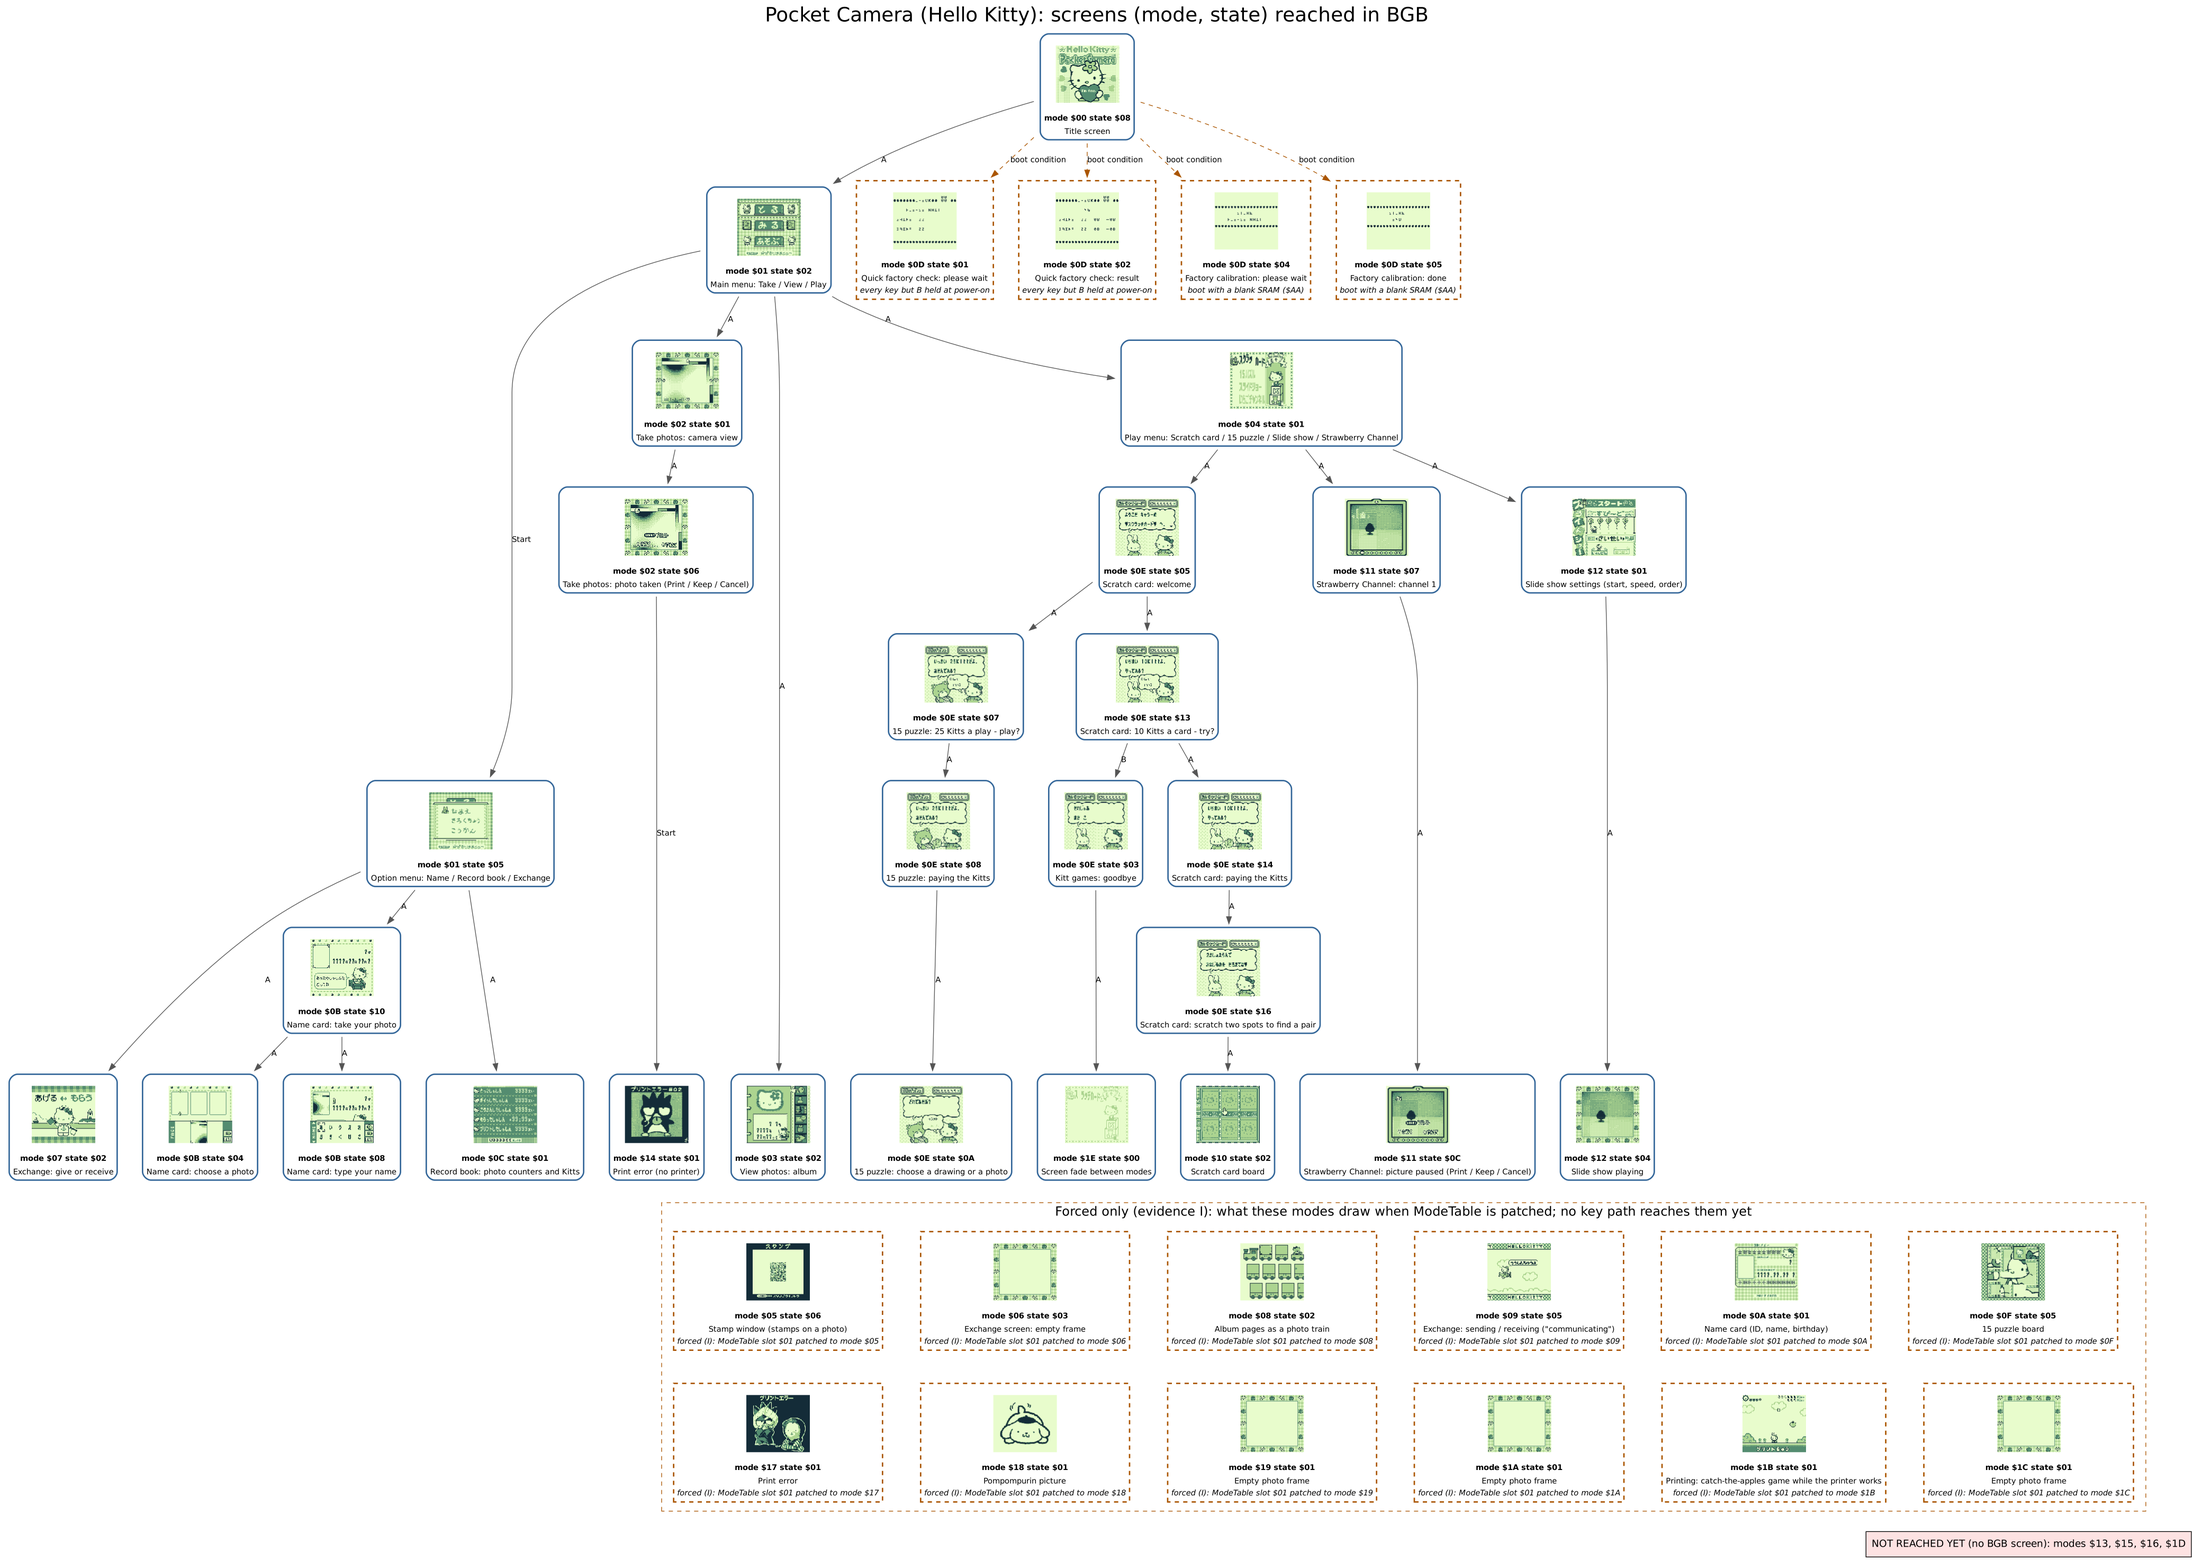
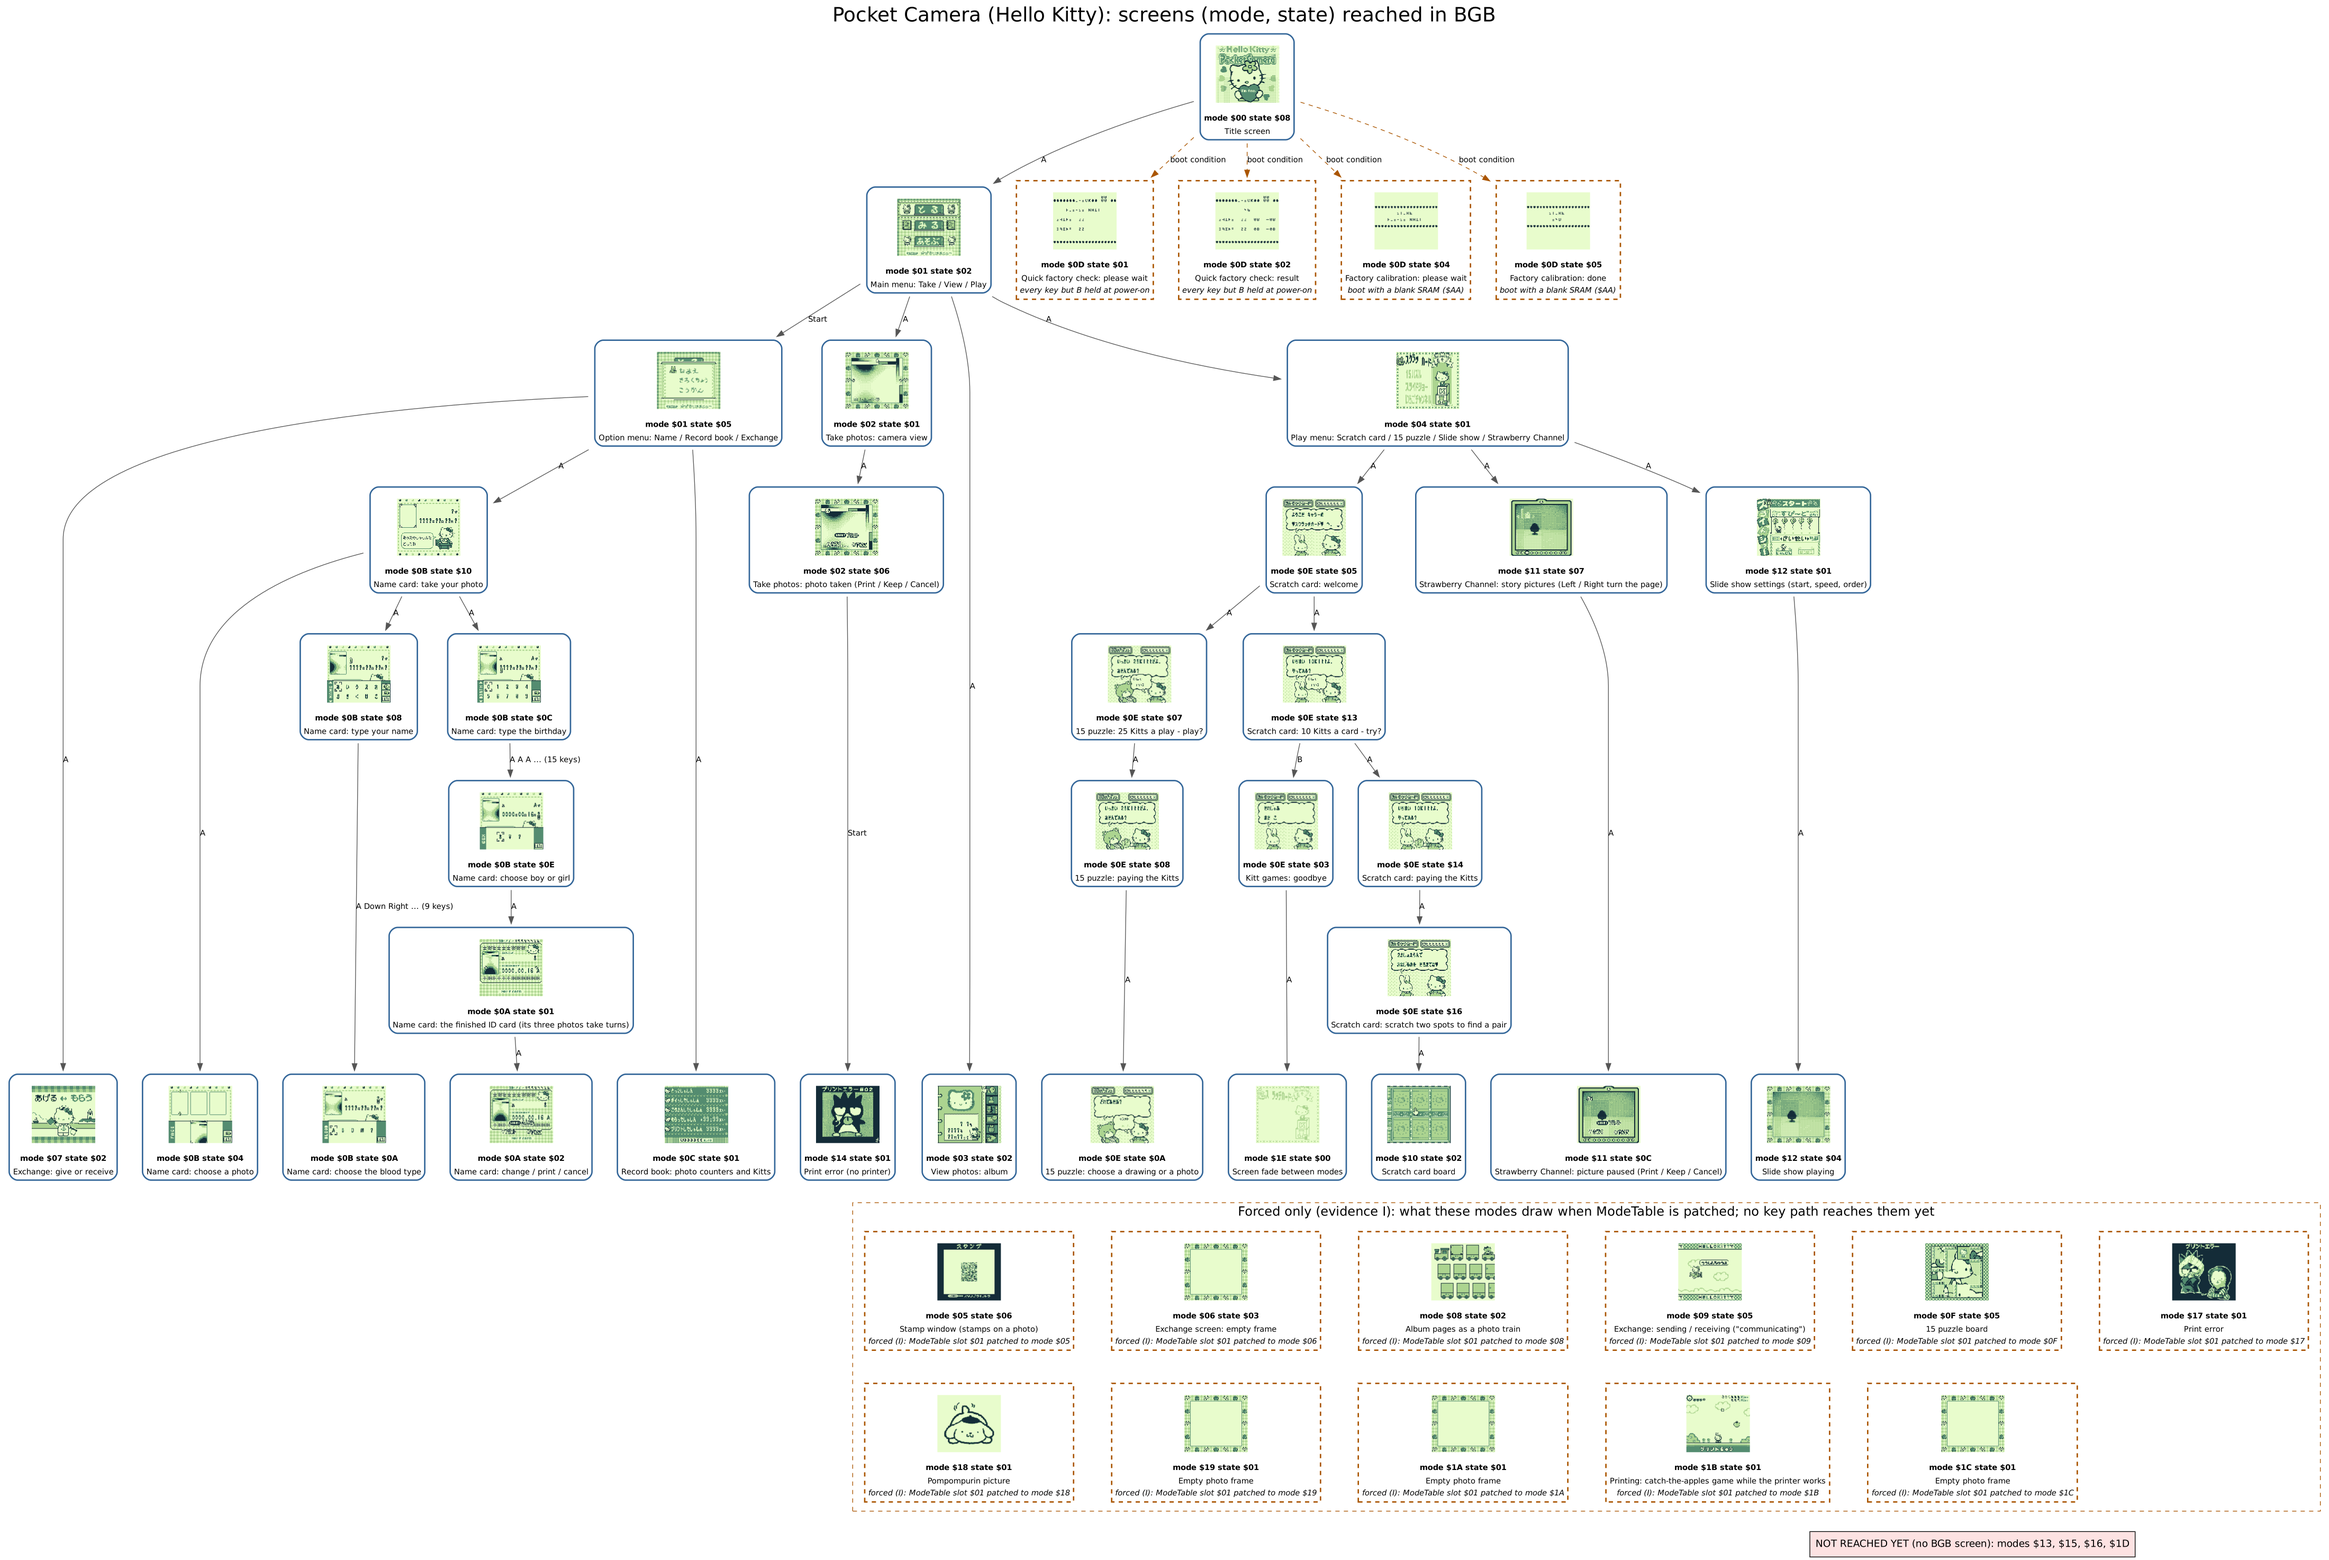
Hello Kitty L2 additions: the animated ID card and the Strawberry Channel pages
* Name card reached with keys only (mode $0B states 4, 8, $0A, $0C, $0E,
  then the finished card, mode $0A states 1-2); mode $0A leaves the forced box.
* Strawberry Channel channel 1: a photo story paged with Left / Right
  (screens/strawberry_channel_pages.png); choosing another channel is open.
* screen_collect.py: a branch exploration's first screen is linked to the
  screen of its longest recorded key prefix; the three trees redrawn.

Check: 0 failed.

Claude-Session: https://claude.ai/code/session_011bkRcFvDptjxMkMYasBR8N

diff --git a/tools/screen_collect.py b/tools/screen_collect.py
@@ -19,6 +19,19 @@ for d in a.explore:
         if r['same'] != 'yes' or k in rows: continue
         pic = 'screen_%s_%s.png' % k; shutil.copy(os.path.join(d, r['picture']), os.path.join(a.out, pic))
         r = {c: r.get(c, '') for c in cols}; r['picture'] = pic; rows[k] = r
+# a branch exploration (--prefix) gives its first screen no parent: take the (mode, state) of any row, in any folder, whose key
+# path is the longest prefix of this one (the screen before; the edge is labelled with the keys after it)
+bykeys = {}
+for d in a.explore:
+    for r in csv.DictReader(open(os.path.join(d, 'explore.csv'))):
+        if r['same'] == 'yes': bykeys.setdefault(r['keys'], (r['mode'], r['state']))
+for k, r in rows.items():
+    if not r['parent'] and r['keys'] not in ('-', ''):
+        ks = r['keys'].split()
+        for j in range(len(ks) - 1, -1, -1):      # the longest recorded prefix; the edge then carries the keys after it
+            pk = ' '.join(ks[:j]) or '-'
+            if pk in bykeys and bykeys[pk] != k:
+                r['parent'] = '%s:%s' % bykeys[pk]; r['key'] = ' '.join(ks[j:]) if len(ks) - j <= 4 else '%s ... (%d keys)' % (' '.join(ks[j:j + 3]), len(ks) - j); break
 with open(os.path.join(a.out, 'explore.csv'), 'w', newline='') as f:
     w = csv.DictWriter(f, cols); w.writeheader(); w.writerows(rows[k] for k in sorted(rows))
 ex = {}

diff --git a/roms/hello_kitty/README.md b/roms/hello_kitty/README.md
@@ -45,7 +45,10 @@ The Kitty engine is not the Japanese one, so this ROM has its own tracer, `tools
 * **0 indirect sites left unresolved (C).** The dynamic ones are read by hand in `disasm/extra_roots_kitty.json` with their reason: the two object engines (per-frame routine and script command calls at `00:2113` / `00:212F` and `01:59E7` / `01:59FE`; objects are 23-byte slots at `$DAEE`, created by `$205D` from a descriptor in bank 2), the script command that calls the word after it (`02:6601` / `02:6612`), and object creations whose descriptor is returned by a far call; their targets come from the runs (observed roots).
 * **Observed (C).** 45,438 of the 60,622 bytes of proven code ran: in the project's core (`tools/kitty_coverage.py`, novelty search over joypad input, four runs of 25 minutes, one with the core's printer model on the link port, one from the owner's unlocking save, plus `tools/kitty_scenarios.py` for the boot conditions), and in BGB for the photo exchange between two linked units (`tools/kitty_bgb_link.py`; logging breakpoints on the 389 blocks no core run had executed, 16 hit; `tools/kitty_bgb_hits.py` credits a block when its first instruction ran). The receiving unit's SRAM changes in the first photo slot (C, BGB state).
 * **Boot conditions (C, core and BGB).** The keys read at power-on are kept in `$D8D8`: every key but B held gives `$FD` and mode `$0D` state 0, the **quick factory check** (`CHECK`, `PLEASE WAIT`, then `GAIN8` / `GAINA` and `NG` with BGB's fake sensor); a blank SRAM of `$AA` gives `$FF` and mode `$0D` state 3, the **factory calibration** (`STORE`, `PLEASE WAIT`, `END`). The same two entries as the Japanese ROM (§18), with the same key combination.
-* **Not run yet.** 15,184 bytes of proven code never ran in any run; 4 modes (`$13`, `$15`, `$16`, `$1D`) draw no screen even when forced (the mode table patched in a copy of the ROM, evidence I), and 12 more show a screen only when forced (below). No code stores a constant mode `$13` or `$15`-`$1D` anywhere in the ROM (raw byte search of `ld b / ld a` + the mode setters); `$02:7EA2` sets the mode from an object's fields, so these may be reached through an object script.
+* **Not run yet.** 15,184 bytes of proven code never ran in any run; 4 modes (`$13`, `$15`, `$16`, `$1D`) draw no screen even when forced (the mode table patched in a copy of the ROM, evidence I), and 11 more show a screen only when forced (below). No code stores a constant mode `$13` or `$15`-`$1D` anywhere in the ROM (raw byte search of `ld b / ld a` + the mode setters); `$02:7EA2` sets the mode from an object's fields, so these may be reached through an object script.
+
+* **Name card (C, BGB).** The owner ID card is reached with keys only: take three photos, open Name in the option menu, pick the three photos (mode `$0B` state 4), type a name (state 8), then the blood type (state `$0A`), the birthday (state `$0C`) and boy / girl (state `$0E`); END shows the finished card (mode `$0A` state 1: ID number, name, birthday; its three photos take turns) and its menu (state 2: change, print, cancel). No new code ran on this path: the core runs had already executed it.
+* **Strawberry Channel (C, BGB).** From the unlocking save, channel 1 is a photo story: Left / Right turn the page (the dots at the bottom show which), with no change of mode or state and no new code; the pages after 0-11 presses of Right are in [`screens/strawberry_channel_pages.png`](screens/strawberry_channel_pages.png). How another channel is chosen is not found yet (Up / Down / Select / Start change only the byte `$D8DC` in the core, not the picture); it is an open point for L3.
 
 ### Screens (BGB)
 
